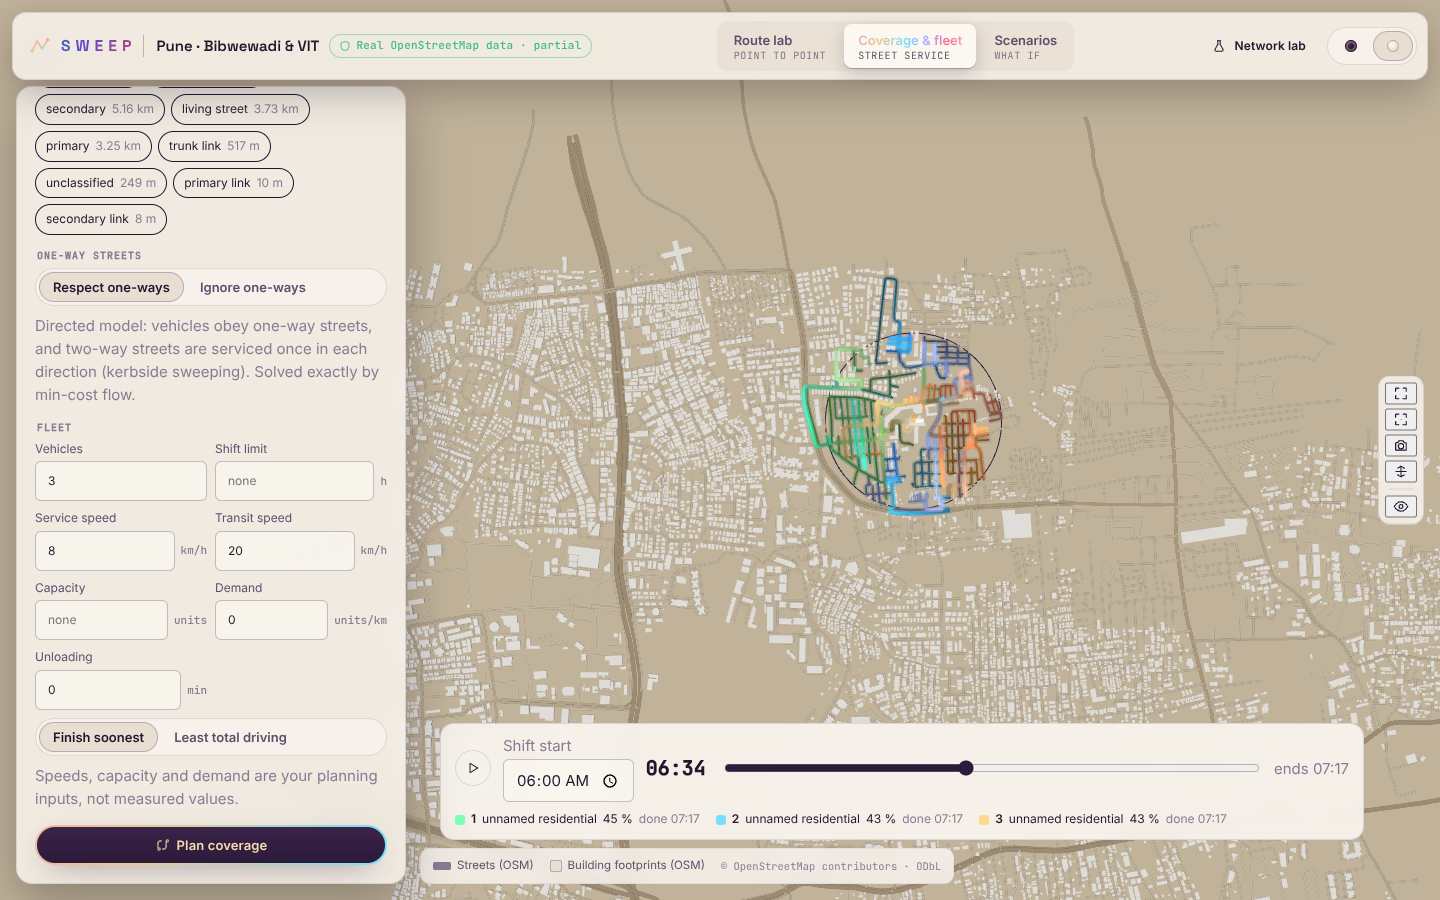
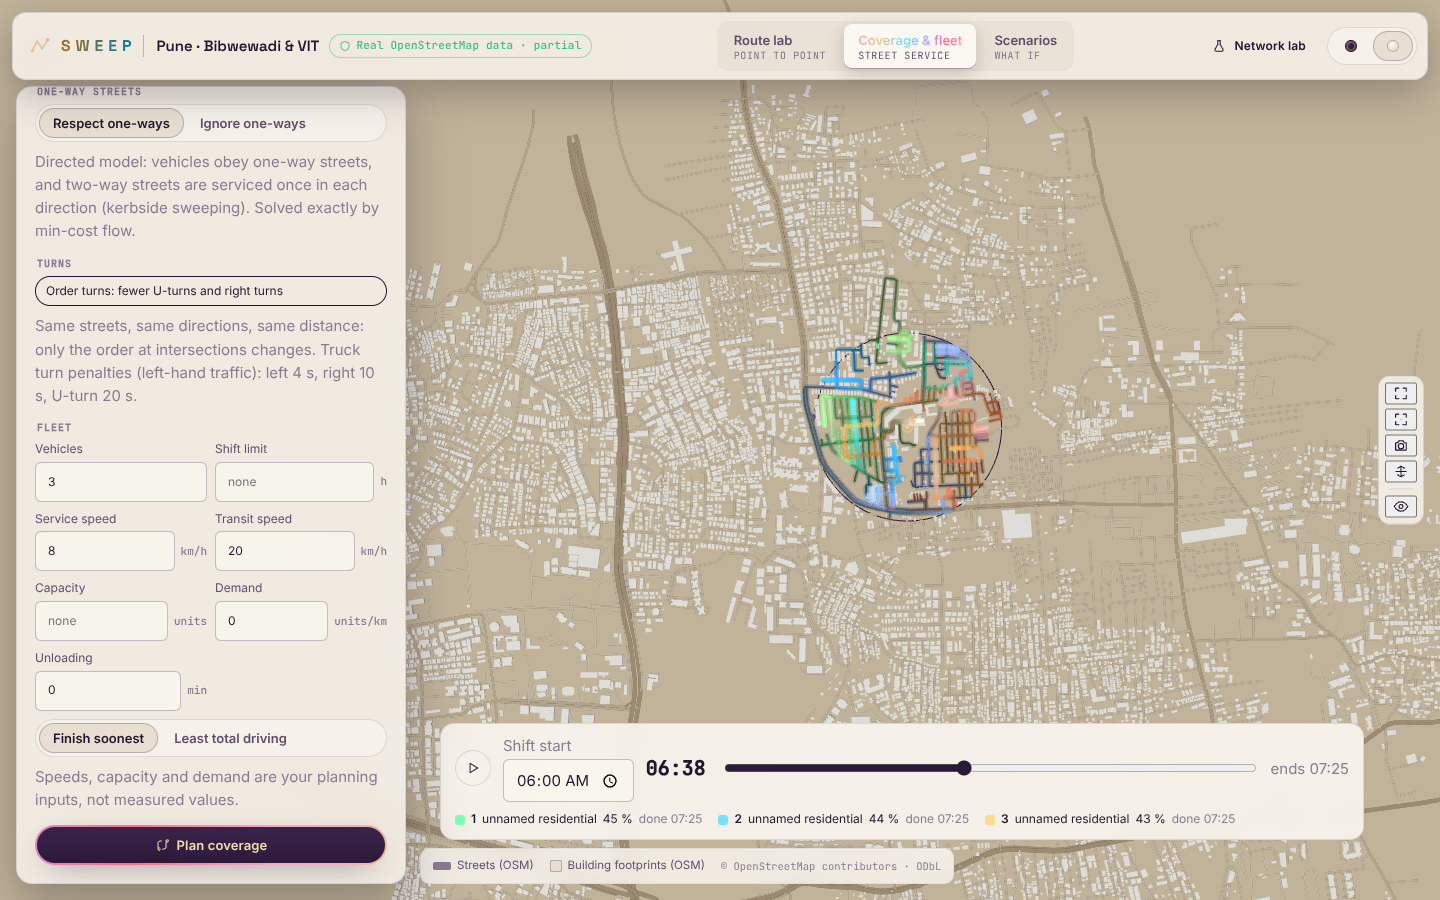
Recapture the city screenshots on the 55-tile bundle
`node scripts/city-screenshots.mjs` against the current build: both themes
from the same camera, a Route lab comparison and a three-vehicle coverage
plan mid-shift. README and the final report now show these reproducible
captures; the two one-off images from the 47-tile bundle are removed.

Claude-Session: https://claude.ai/code/session_01CSpTwvnce58BdNaHwNZVMc

diff --git a/docs/FINAL_REPORT.md b/docs/FINAL_REPORT.md
@@ -67,7 +67,7 @@ The 3D scene's own materials and lights change with the theme. Verified by e2e:
 * switching theme raises the ground luminance at least threefold;
 * measured roof-to-ground contrast is 6.86:1 in Velvet and 1.52:1 in Porcelain (threshold 1.3:1), on the 55-tile bundle.
 
-Same-camera captures: `docs/screenshots/city-velvet.png` and `city-porcelain.png`, plus the route captures (`city-route-velvet.png`, `city-route-lab.png`) and the coverage captures (`city-coverage-porcelain.png`, `city-coverage-fleet.png`). Velvet buildings, which were the original complaint, are clearly visible on the landing page, in the lab and in the city.
+Same-camera captures on the 55-tile bundle: `docs/screenshots/city-velvet.png` and `city-porcelain.png`, plus a route (`city-route-velvet.png`) and a three-vehicle coverage plan mid-shift (`city-coverage-porcelain.png`), all produced by `node scripts/city-screenshots.mjs`. Velvet buildings, which were the original complaint, are clearly visible on the landing page, in the lab and in the city.
 
 ## 5. Algorithms
 

diff --git a/README.md b/README.md
@@ -51,9 +51,9 @@ The original abstract-network laboratory (editor, proofs, Zurich sample) is at `
 |---|---|
 | ![City workspace, Velvet theme, focused on VIT Bibwewadi](docs/screenshots/city-velvet.png) | ![City workspace, Porcelain theme, same camera](docs/screenshots/city-porcelain.png) |
 
-| Route lab: five algorithms on one real query | Coverage & fleet: three vehicles on a free-outline zone, mid-shift |
+| Route lab: five algorithms on one real query | Coverage & fleet: three vehicles on a circle zone, mid-shift |
 |---|---|
-| ![Route lab with the computed route](docs/screenshots/city-route-lab.png) | ![Coverage plan with three vehicle routes and the shift timeline](docs/screenshots/city-coverage-fleet.png) |
+| ![Route lab with the computed route](docs/screenshots/city-route-velvet.png) | ![Coverage plan with three vehicle routes and the shift timeline](docs/screenshots/city-coverage-porcelain.png) |
 
 Network lab (`/lab`):
 

diff --git a/HANDOFF.md b/HANDOFF.md
@@ -316,7 +316,7 @@ Profiled on the whole 47-tile network (3,032 odd intersections): the optional op
 
 ### 4.4 Screenshots and the final report
 
-* Same-camera screenshots of `/workspace` in both themes, the Route lab and a coverage plan are in `docs/screenshots/city-*.png` (second session) and in README. Recapture them after the data changes.
+* Same-camera screenshots of `/workspace` in both themes, the Route lab and a coverage plan are in `docs/screenshots/city-*.png` and in README, recaptured on the 55-tile bundle in the fourth session. Recapture them with `node scripts/city-screenshots.mjs` (server on :8790) after the data changes.
 * The final report for the owner is `docs/FINAL_REPORT.md`. The fourth session updated it to the 55-tile bundle and the third session's features (re-measured contrast and benchmarks, current test results). Update it whenever the data or the test figures change.
 
 ### 4.5 Next features
